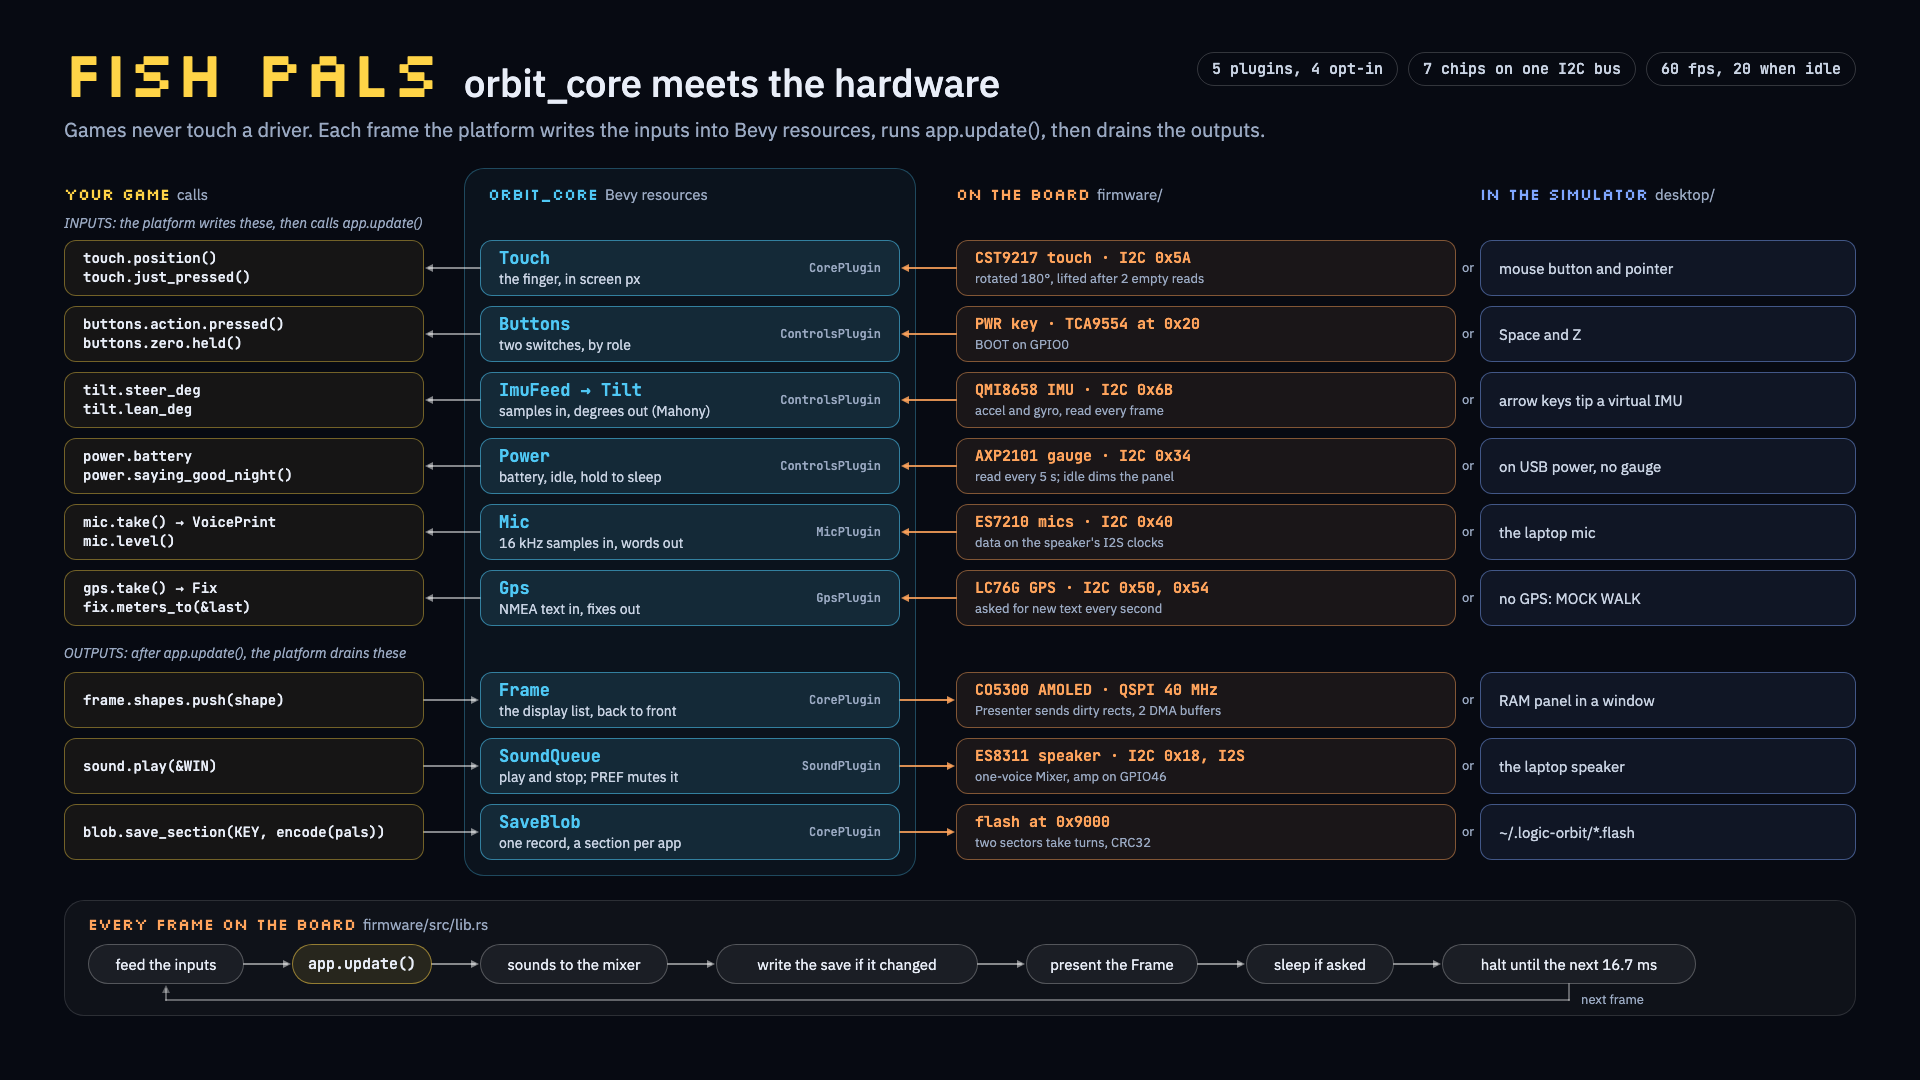
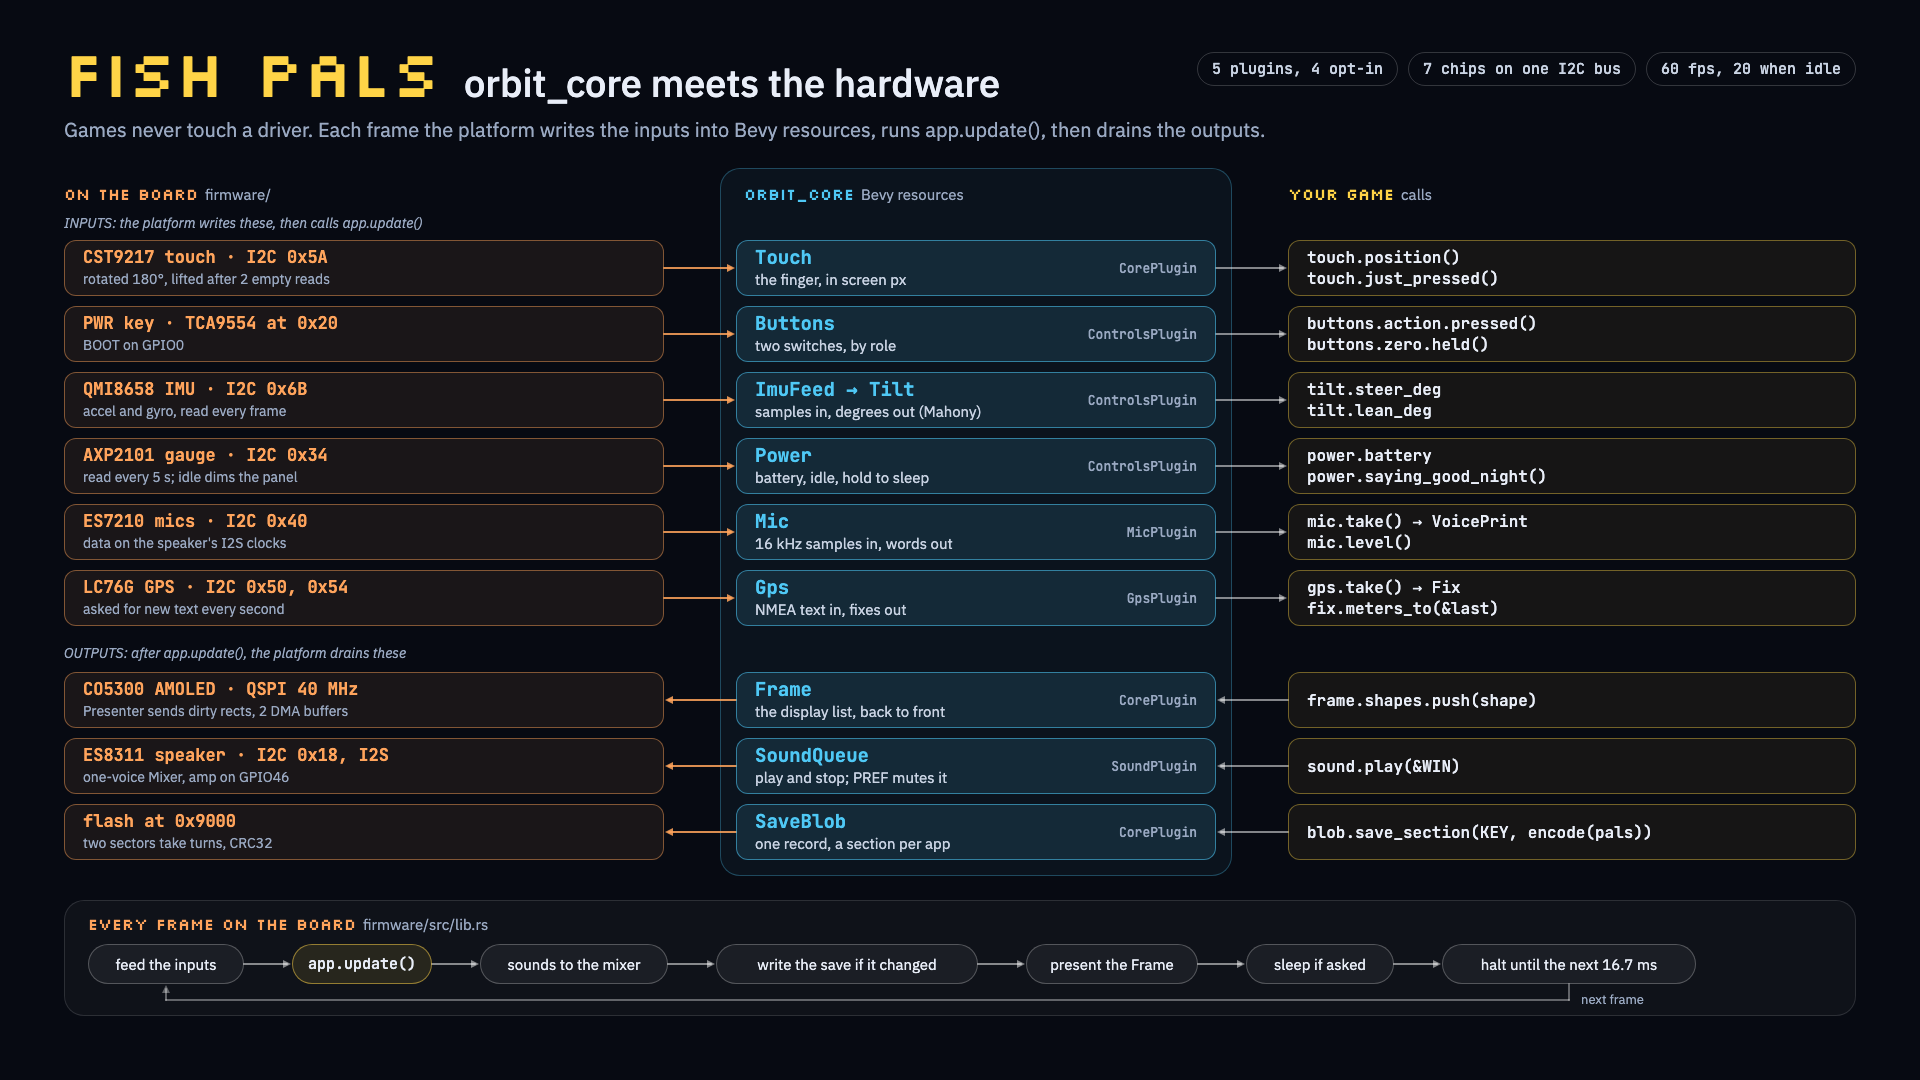
docs: the orbit_core slide reads left to right. Board, then orbit_core, then the game, so inputs flow into the game in reading order and the frame, sounds and saves flow back to their chips. The simulator column is gone (the overview still shows the desktop stand-ins), and its width went to bigger t

diff --git a/docs/architecture/build.py b/docs/architecture/build.py
@@ -596,20 +596,20 @@ def pipeline():
     return b
 
 
-# Each line between a game and the hardware, through orbit_core: (what a game calls, the
-# resource, what it holds, its plugin, the board's chip, how the board feeds it, the simulator).
+# Each line between the hardware and a game, through orbit_core: (the board's chip, how the
+# board feeds or drains it, the resource, what it holds, its plugin, what a game calls).
 INPUTS = [
-    ("touch.position()<br>touch.just_pressed()", "Touch", "the finger, in screen px", "CorePlugin", "CST9217 touch · I2C 0x5A", "rotated 180°, lifted after 2 empty reads", "mouse button and pointer"),
-    ("buttons.action.pressed()<br>buttons.zero.held()", "Buttons", "two switches, by role", "ControlsPlugin", "PWR key · TCA9554 at 0x20", "BOOT on GPIO0", "Space and Z"),
-    ("tilt.steer_deg<br>tilt.lean_deg", "ImuFeed → Tilt", "samples in, degrees out (Mahony)", "ControlsPlugin", "QMI8658 IMU · I2C 0x6B", "accel and gyro, read every frame", "arrow keys tip a virtual IMU"),
-    ("power.battery<br>power.saying_good_night()", "Power", "battery, idle, hold to sleep", "ControlsPlugin", "AXP2101 gauge · I2C 0x34", "read every 5 s; idle dims the panel", "on USB power, no gauge"),
-    ("mic.take() → VoicePrint<br>mic.level()", "Mic", "16 kHz samples in, words out", "MicPlugin", "ES7210 mics · I2C 0x40", "data on the speaker's I2S clocks", "the laptop mic"),
-    ("gps.take() → Fix<br>fix.meters_to(&amp;last)", "Gps", "NMEA text in, fixes out", "GpsPlugin", "LC76G GPS · I2C 0x50, 0x54", "asked for new text every second", "no GPS: MOCK WALK"),
+    ("CST9217 touch · I2C 0x5A", "rotated 180°, lifted after 2 empty reads", "Touch", "the finger, in screen px", "CorePlugin", "touch.position()<br>touch.just_pressed()"),
+    ("PWR key · TCA9554 at 0x20", "BOOT on GPIO0", "Buttons", "two switches, by role", "ControlsPlugin", "buttons.action.pressed()<br>buttons.zero.held()"),
+    ("QMI8658 IMU · I2C 0x6B", "accel and gyro, read every frame", "ImuFeed → Tilt", "samples in, degrees out (Mahony)", "ControlsPlugin", "tilt.steer_deg<br>tilt.lean_deg"),
+    ("AXP2101 gauge · I2C 0x34", "read every 5 s; idle dims the panel", "Power", "battery, idle, hold to sleep", "ControlsPlugin", "power.battery<br>power.saying_good_night()"),
+    ("ES7210 mics · I2C 0x40", "data on the speaker's I2S clocks", "Mic", "16 kHz samples in, words out", "MicPlugin", "mic.take() → VoicePrint<br>mic.level()"),
+    ("LC76G GPS · I2C 0x50, 0x54", "asked for new text every second", "Gps", "NMEA text in, fixes out", "GpsPlugin", "gps.take() → Fix<br>fix.meters_to(&amp;last)"),
 ]
 OUTPUTS = [
-    ("frame.shapes.push(shape)", "Frame", "the display list, back to front", "CorePlugin", "CO5300 AMOLED · QSPI 40 MHz", "Presenter sends dirty rects, 2 DMA buffers", "RAM panel in a window"),
-    ("sound.play(&amp;WIN)", "SoundQueue", "play and stop; PREF mutes it", "SoundPlugin", "ES8311 speaker · I2C 0x18, I2S", "one-voice Mixer, amp on GPIO46", "the laptop speaker"),
-    ("blob.save_section(KEY, encode(pals))", "SaveBlob", "one record, a section per app", "CorePlugin", "flash at 0x9000", "two sectors take turns, CRC32", "~/.logic-orbit/*.flash"),
+    ("CO5300 AMOLED · QSPI 40 MHz", "Presenter sends dirty rects, 2 DMA buffers", "Frame", "the display list, back to front", "CorePlugin", "frame.shapes.push(shape)"),
+    ("ES8311 speaker · I2C 0x18, I2S", "one-voice Mixer, amp on GPIO46", "SoundQueue", "play and stop; PREF mutes it", "SoundPlugin", "sound.play(&amp;WIN)"),
+    ("flash at 0x9000", "two sectors take turns, CRC32", "SaveBlob", "one record, a section per app", "CorePlugin", "blob.save_section(KEY, encode(pals))"),
 ]
 
 # One pass of the firmware's frame loop: (step, width).
@@ -634,51 +634,48 @@ def core():
         ["5 plugins, 4 opt-in", "7 chips on one I2C bus", "60 fps, 20 when idle"],
     )
 
-    b.band(464, 168, 452, 708, CYAN, fill=0.05, edge=0.3)
-    b.text(64, 184, tag("YOUR GAME", YELLOW) + "&nbsp; calls", size=15, color=MUTED, line=20)
-    b.text(488, 184, tag("ORBIT_CORE", CYAN) + "&nbsp; Bevy resources", size=15, color=MUTED, line=20)
-    b.text(956, 184, tag("ON THE BOARD", ORANGE) + "&nbsp; firmware/", size=15, color=MUTED, line=20)
-    b.text(1480, 184, tag("IN THE SIMULATOR", BLUE) + "&nbsp; desktop/", size=15, color=MUTED, line=20)
+    b.band(720, 168, 512, 708, CYAN, fill=0.05, edge=0.3)
+    b.text(64, 184, tag("ON THE BOARD", ORANGE) + "&nbsp; firmware/", size=15, color=MUTED, line=20)
+    b.text(744, 184, tag("ORBIT_CORE", CYAN) + "&nbsp; Bevy resources", size=15, color=MUTED, line=20)
+    b.text(1288, 184, tag("YOUR GAME", YELLOW) + "&nbsp; calls", size=15, color=MUTED, line=20)
     b.text(64, 214, "INPUTS: the platform writes these, then calls app.update()", size=14, color=MUTED, line=18, font_style="italic")
     b.text(64, 644, "OUTPUTS: after app.update(), the platform drains these", size=14, color=MUTED, line=18, font_style="italic")
 
     rows = [(240 + i * 66, row, True) for i, row in enumerate(INPUTS)]
     rows += [(672 + i * 66, row, False) for i, row in enumerate(OUTPUTS)]
-    for top, (call, resource, holds, plugin, chip, detail, sim), incoming in rows:
+    for top, (chip, detail, resource, holds, plugin, call), incoming in rows:
         y = top + 28
-        b.card(64, top, 360, 56, span(call), YELLOW, fill=0.06, edge=0.4, font_family=MONO, font_size="14px", line_height="19px")
         b.card(
-            480,
+            64,
             top,
-            420,
+            600,
             56,
-            span(mono(resource, CYAN, 17) + "<br>" + holds, line_height="20px")
-            + span(plugin, font_family=MONO, font_size="12px", color=MUTED),
-            CYAN,
-            fill=0.12,
-            justify_content="space-between",
-            font_size="14px",
-            color=SOFT,
-        )
-        b.card(
-            956,
-            top,
-            500,
-            56,
-            span(mono(chip, ORANGE, 15) + "<br>" + span(detail, font_size="13px", color=MUTED), line_height="19px"),
+            span(mono(chip, ORANGE, 17) + "<br>" + span(detail, font_size="14px", color=MUTED), line_height="21px"),
             ORANGE,
             fill=0.08,
             edge=0.45,
-            font_size="15px",
+            font_size="17px",
         )
-        b.text(1456, top + 19, "or", size=13, color=MUTED, line=18, width="24px", text_align="center")
-        b.card(1480, top, 376, 56, span(sim), BLUE, fill=0.08, edge=0.45, font_size="15px", color=SOFT)
+        b.card(
+            736,
+            top,
+            480,
+            56,
+            span(mono(resource, CYAN, 19) + "<br>" + holds, line_height="21px")
+            + span(plugin, font_family=MONO, font_size="13px", color=MUTED),
+            CYAN,
+            fill=0.12,
+            justify_content="space-between",
+            font_size="15px",
+            color=SOFT,
+        )
+        b.card(1288, top, 568, 56, span(call), YELLOW, fill=0.06, edge=0.4, font_family=MONO, font_size="16px", line_height="21px")
         if incoming:
-            b.arrow(956, y, 901, y, ORANGE)
-            b.arrow(480, y, 425, y, WHITE, alpha=0.5)
+            b.arrow(664, y, 735, y, ORANGE)
+            b.arrow(1216, y, 1287, y, WHITE, alpha=0.5)
         else:
-            b.arrow(424, y, 479, y, WHITE, alpha=0.5)
-            b.arrow(900, y, 955, y, ORANGE)
+            b.arrow(1288, y, 1217, y, WHITE, alpha=0.5)
+            b.arrow(736, y, 665, y, ORANGE)
 
     b.band(64, 900, 1792, 116)
     b.text(88, 914, tag("EVERY FRAME ON THE BOARD", ORANGE) + "&nbsp; firmware/src/lib.rs", size=15, color=MUTED, line=20)

diff --git a/devlog/beats.md b/devlog/beats.md
@@ -738,3 +738,15 @@ Images are in `img/`. Newest beats go at the bottom.
 - **Hook:** "The game never talks to a single chip. Here's the one layer that does."
 - Images: `41-architecture.png`, `41-orbit-core.png`, `41-trailer-pipeline.png`,
   `41-case-pipeline.png`.
+
+## 42. The hardware slide reads left to right (2026-10-09)
+
+- **The ask:** "remove the simulator and reverse the direction flow on the hardware
+  diagram."
+- **Before:** the game sat on the left and the chips on the right, so inputs ran right to
+  left, against reading order. A simulator column took the last quarter of the width.
+- **After:** board, then orbit_core, then the game. A touch, a tilt or a word now runs left
+  to right into the game, and the frame, sounds and saves run back left to their chips.
+  The width the simulator gave up went to bigger type. The desktop stand-ins are still on
+  the overview slide.
+- Images: `41-orbit-core.png` (before), `42-orbit-core.png` (after).
